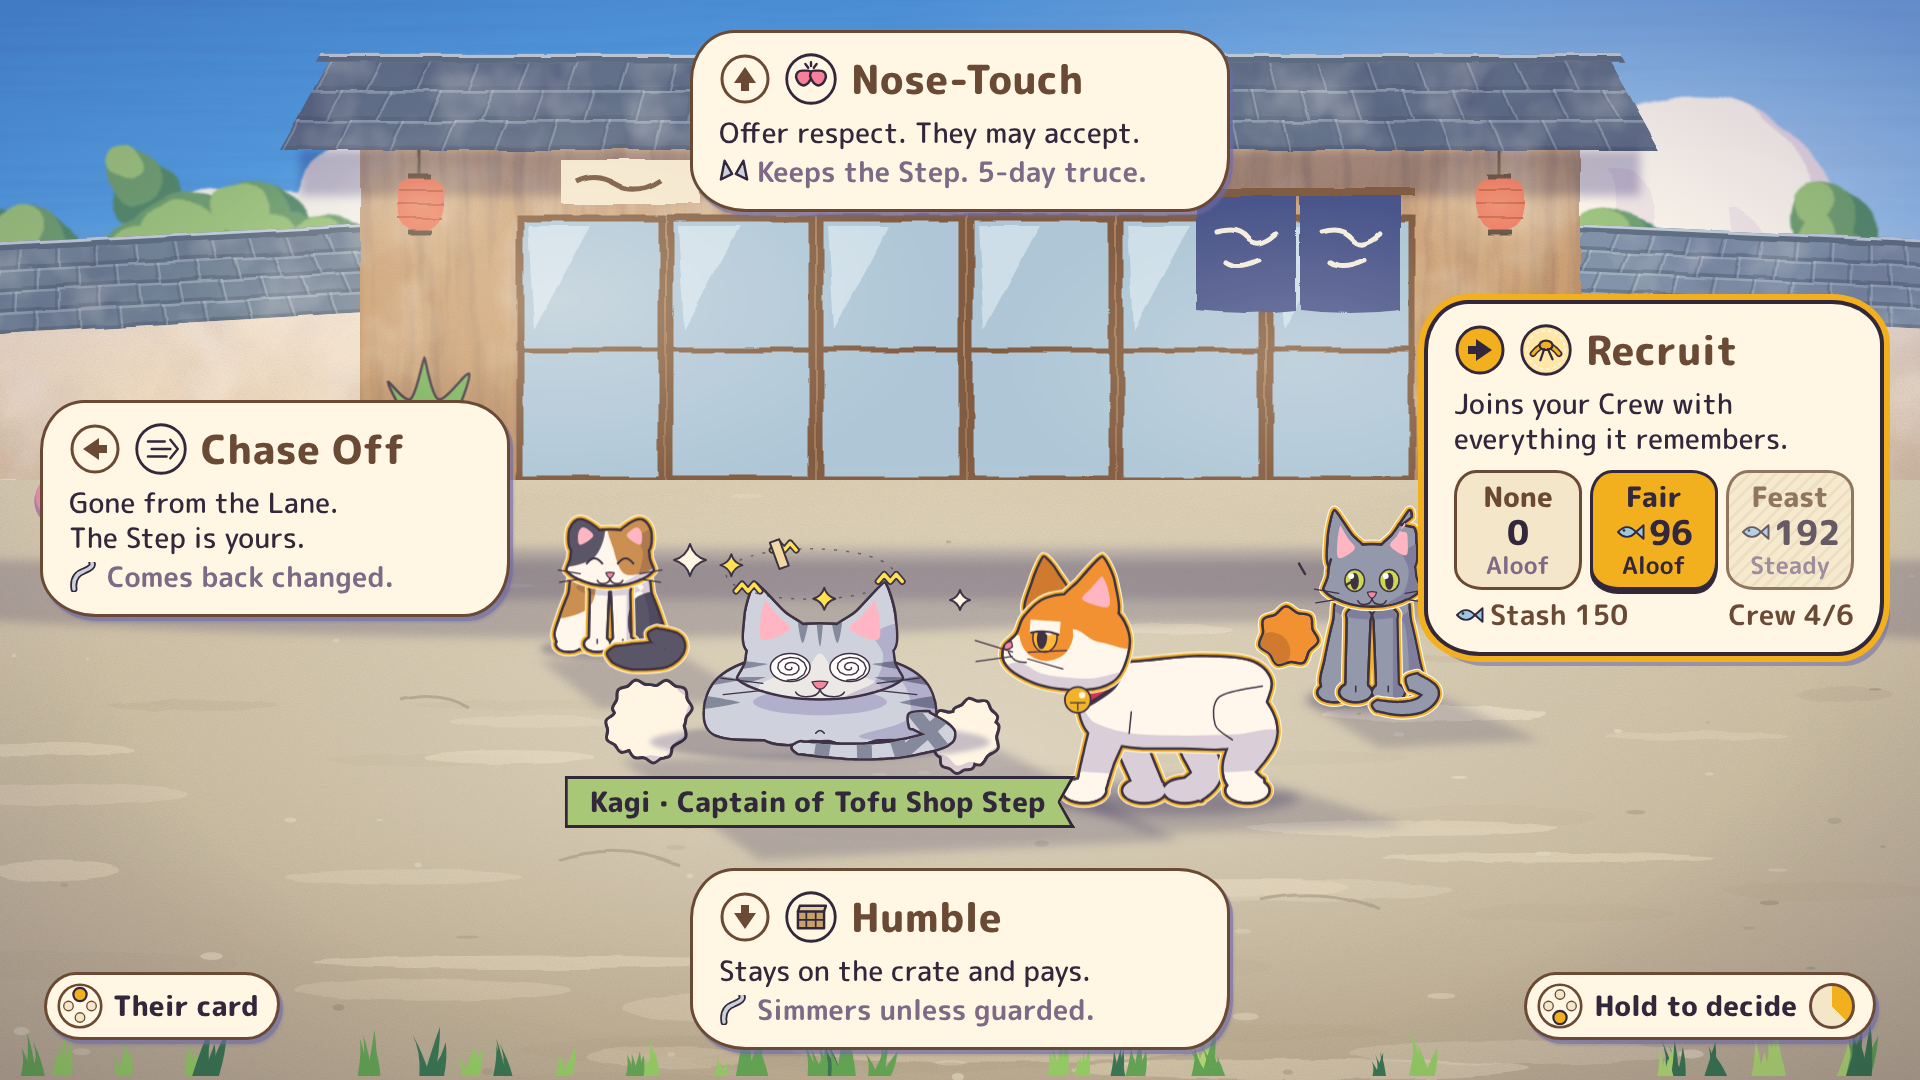
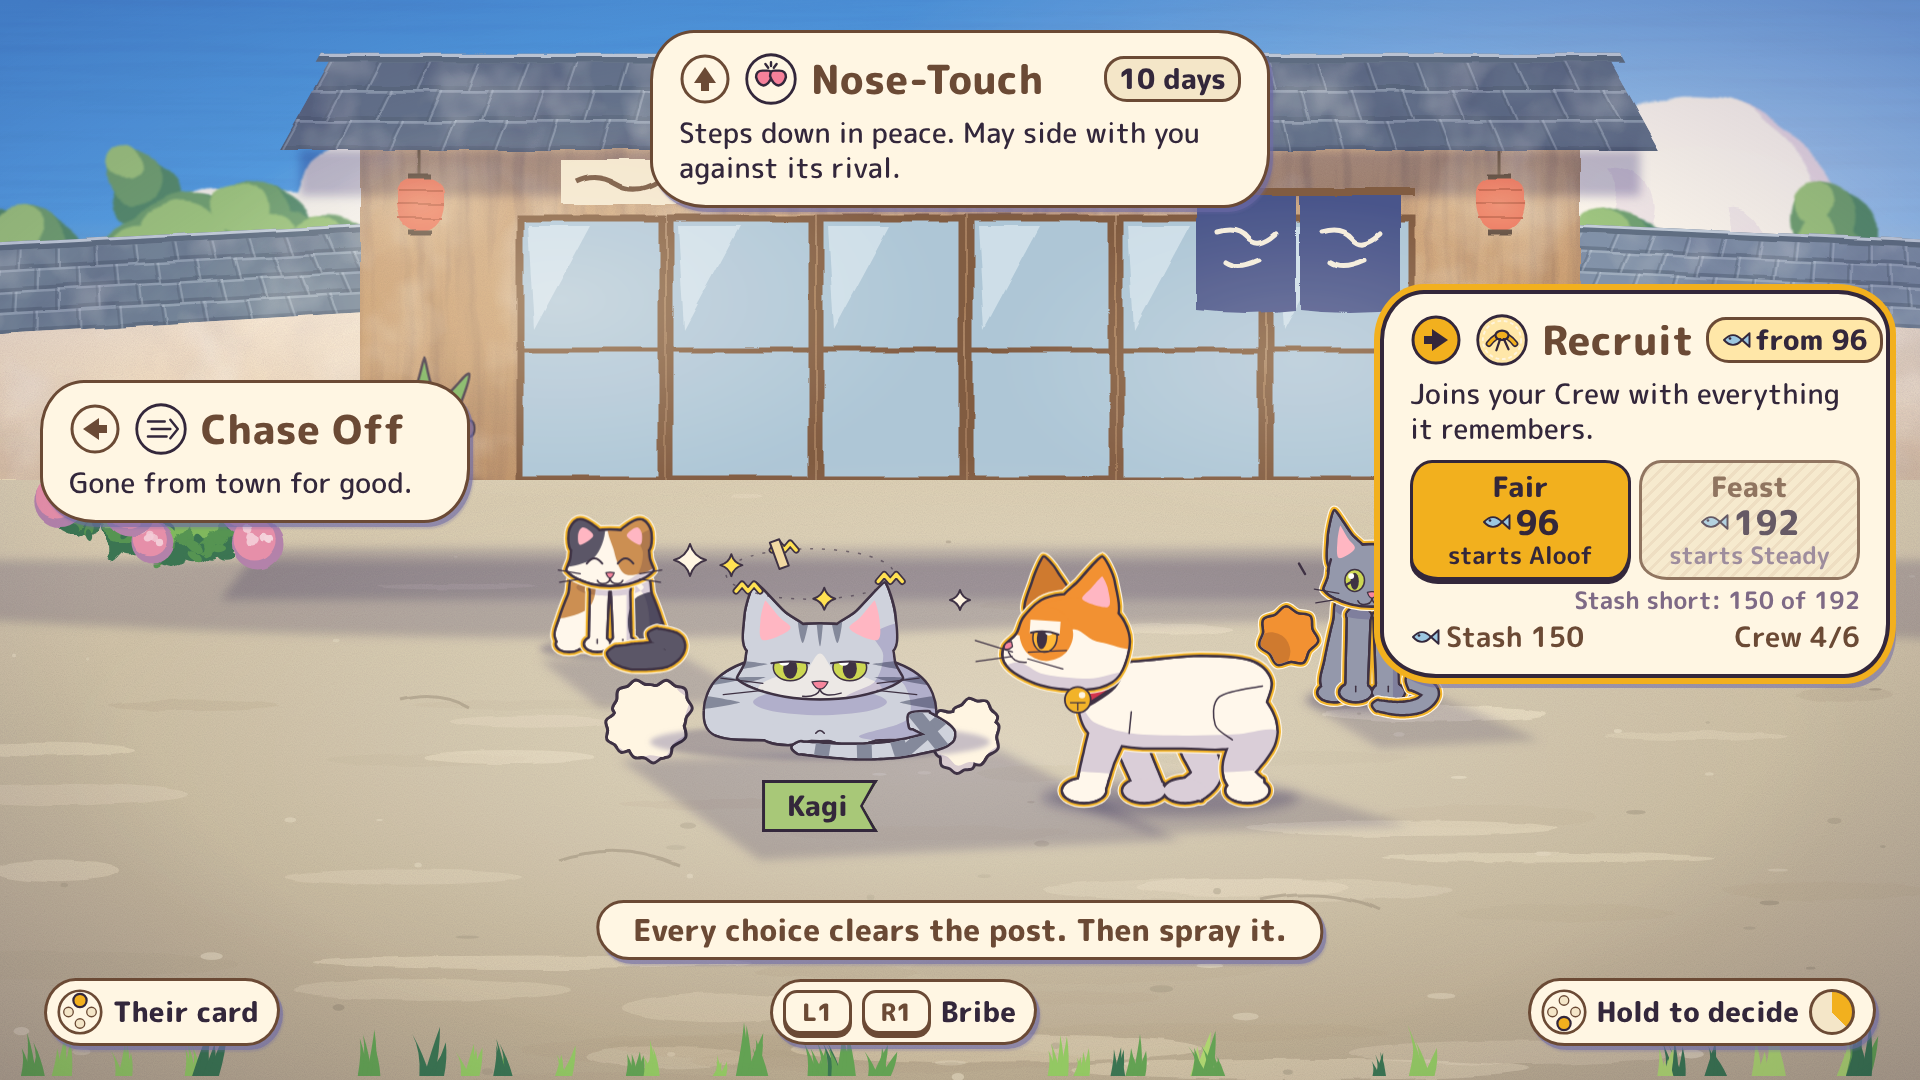
docs: redraw Rivals board and three-option Verdict previews
Claude-Session: https://claude.ai/code/session_01K9BzCtu5ca2nRxDXecreHZ

diff --git a/design/previews/07-verdict.html b/design/previews/07-verdict.html
@@ -8,17 +8,16 @@
   body { margin: 0; background: #111; }
   .vc { position: absolute; width: 470px; box-sizing: border-box; padding: 18px 26px 20px; }
   .vc .hd { display: flex; align-items: center; gap: 12px; margin-bottom: 8px; }
-  .vc .hd .t { font: 800 40px/1 var(--font); color: var(--cocoa); letter-spacing: .01em; }
+  .vc .hd .t { white-space: nowrap; font: 800 40px/1 var(--font); color: var(--cocoa); letter-spacing: .01em; }
   .vc .hd svg { display: block; flex: none; }
   .vc .ln { font: 500 28px/1.25 var(--font); color: var(--ink); }
   .vc .ln b { font-weight: 800; }
   .vc .risk { font: 700 28px/1.25 var(--font); color: #7E6A86; margin-top: 4px; display: flex; align-items: center; gap: 8px; }
   .vc--raised { border-color: var(--ink); border-width: 4px; box-shadow: 0 0 0 6px var(--gold), 6px 10px 0 rgba(110,106,168,.55); }
-  #v-up { left: 690px; top: 30px; width: 540px; }
-  #v-down { left: 690px; top: 868px; width: 540px; }
-  #v-left { left: 40px; top: 400px; }
-  #v-right { left: 1424px; top: 300px; width: 460px; padding-bottom: 22px; }
-  .bribe { display: grid; grid-template-columns: repeat(3, 1fr); gap: 8px; margin-top: 14px; }
+  #v-up { left: 650px; top: 30px; width: 620px; }
+  #v-left { left: 40px; top: 380px; width: 430px; }
+  #v-right { left: 1380px; top: 290px; width: 510px; padding-bottom: 22px; }
+  .bribe { display: grid; grid-template-columns: repeat(2, 1fr); gap: 8px; margin-top: 14px; }
   .bribe .opt { display: flex; flex-direction: column; align-items: center; gap: 4px; padding: 10px 4px 10px; border: 3px solid var(--cocoa); border-radius: 22px 26px 22px 28px / 26px 22px 28px 22px; background: var(--recessed); }
   .bribe .opt .n { font: 800 28px/1 var(--font); color: var(--cocoa); }
   .bribe .opt .p { font: 800 34px/1 var(--font); color: var(--ink); display: flex; align-items: center; gap: 4px; }
@@ -28,10 +27,14 @@
   .bribe .opt--short { background: repeating-linear-gradient(-45deg, var(--recessed) 0 6px, #E9D7B8 6px 9px); opacity: .75; }
   .stash { display: flex; justify-content: space-between; margin-top: 10px; font: 700 28px/1 var(--font); color: var(--cocoa); }
   .stash span { display: flex; align-items: center; gap: 6px; }
-  #foot-l { left: 44px; bottom: 40px; }
-  #foot-r { right: 44px; bottom: 40px; display: flex; align-items: center; gap: 12px; }
-  #foot-r .ring { width: 46px; height: 46px; border-radius: 50%; background: conic-gradient(var(--gold) 0 38%, var(--recessed) 38% 100%); border: 3px solid var(--cocoa); box-sizing: border-box; }
-  #title { left: 820px; top: 776px; transform: translateX(-50%); display: flex; align-items: center; gap: 14px; }
+  .chip { margin-left: auto; flex: none; display: inline-flex; align-items: center; gap: 4px; height: 40px; padding: 0 12px; border-radius: 20px 22px 19px 23px; background: var(--recessed); border: 3px solid var(--cocoa); font: 800 28px/1 var(--font); color: var(--ink); white-space: nowrap; }
+  .chip--gold { background: #FFE7A8; }
+  .short { margin-top: 8px; font: 700 24px/1 var(--font); color: #7E6A86; text-align: right; }
+  #strip { left: 50%; top: 900px; transform: translateX(-50%); padding: 12px 34px; background: var(--cream); border: 3px solid var(--cocoa); border-radius: 30px 34px 30px 36px; box-shadow: var(--drop); font: 800 30px/1 var(--font); color: var(--cocoa); white-space: nowrap; }
+  #foot { left: 44px; right: 44px; bottom: 34px; display: flex; justify-content: space-between; align-items: center; }
+  #foot .k-prompt .k-btn { height: 44px; }
+  #hold .ring { width: 46px; height: 46px; border-radius: 50%; background: conic-gradient(var(--gold) 0 38%, var(--recessed) 38% 100%); border: 3px solid var(--cocoa); box-sizing: border-box; }
+  #title { left: 820px; top: 780px; transform: translateX(-50%); display: flex; align-items: center; gap: 14px; }
 </style>
 </head>
 <body>
@@ -40,8 +43,8 @@
 <script src="rival-helpers.js"></script>
 <script>
 /* FRAME 07 — THE VERDICT. Tofu Shop Step, late Day. The Posse has Routed Kagi, Captain of Tofu Shop Step.
- * Low two-shot, HUD hidden, the clock paused. Four Verdicts on the fixed compass: Up Nose-Touch, Down Humble,
- * Left Chase Off, Right Recruit (raised: the Bribe row is open on Fair; Feast is beyond the Stash).
+ * Low two-shot, HUD hidden, the clock paused. THREE Verdicts (key-screens §4, OR-12): Left Chase Off, Up Nose-Touch
+ * (10-day truce), Right Recruit (raised: Life 2 Bribe row Fair / Feast, Fair selected, Feast beyond the Stash). No Down card.
  * Perspective: horizon y=470, focal 1300, camera 0.45 m up (low). */
 const K = Kit, C = K.C, W = 1920, H = 1080, HZ = 470, F = 1300, CX = 960, CH = 0.45;
 const P = (X, Y, d) => [CX + X * F / d, HZ + (CH - Y) * F / d];
@@ -102,7 +105,7 @@ s.push(K.castShadow('M620 760L1000 750L1180 840L760 860Z', 0.32) + K.castShadow(
 const kg = { x: 820, y: 742 };
 s.push(K.dustCloud({ x: kg.x - 170, y: kg.y - 20, r: 46, puffs: 5, seed: 3 }) + K.dustCloud({ x: kg.x + 150, y: kg.y - 6, r: 36, puffs: 4, seed: 5 }));
 s.push(K.shadow({ x: kg.x, y: kg.y, rx: 170, ry: 18, opacity: 0.4 }));
-s.push(`<g transform="translate(${kg.x} ${kg.y}) scale(1.16 0.82) translate(${-kg.x} ${-kg.y})">${K.cat({ ...RV.CAST.kagi, pose: 'loaf', expr: 'spiral', x: kg.x, y: kg.y, scale: 2.3, shadow: false })}</g>`);
+s.push(`<g transform="translate(${kg.x} ${kg.y}) scale(1.16 0.82) translate(${-kg.x} ${-kg.y})">${K.cat({ ...RV.CAST.kagi, pose: 'loaf', expr: 'smug', x: kg.x, y: kg.y, scale: 2.3, shadow: false })}</g>`);
 s.push(K.frazzleOrbit({ x: kg.x - 10, y: kg.y - 168, r: 84 }));
 s.push(`<g transform="translate(${kg.x - 40} ${kg.y - 186}) rotate(-20)">${K.inked('M-5 -16H5V12H-5Z', '#F2D8A0', 2)}</g>`); // its clothes-peg, knocked askew
 
@@ -130,23 +133,21 @@ const tail = `<svg width="30" height="30" viewBox="-15 -15 30 30"><path d="M-10 
 const ears = `<svg width="30" height="30" viewBox="-16 -16 32 32"><path d="M-14 8L-10 -12L-2 2ZM14 8L10 -12L2 2Z" fill="#CDD1DC" stroke="${C.ink}" stroke-width="2.6" stroke-linejoin="round"/></svg>`;
 
 document.getElementById('stage').innerHTML = K.svg(W, H, s.join(''), 'class="k-world"') + `
-  <div class="k-panel vc" id="v-up"><div class="hd">${arrow('up')}${ic(noses)}<span class="t">Nose-Touch</span></div>
-    <div class="ln">Offer respect. They may accept.</div><div class="risk">${ears}Keeps the Step. 5-day truce.</div></div>
+  <div class="k-panel vc" id="v-up"><div class="hd">${arrow('up')}${ic(noses)}<span class="t">Nose-Touch</span><span class="chip">10 days</span></div>
+    <div class="ln">Steps down in peace. May side with you against its rival.</div></div>
   <div class="k-panel vc" id="v-left"><div class="hd">${arrow('left')}${ic(G.run)}<span class="t">Chase Off</span></div>
-    <div class="ln">Gone from the Lane.<br>The Step is yours.</div><div class="risk">${tail}Comes back changed.</div></div>
-  <div class="k-panel vc" id="v-down"><div class="hd">${arrow('down')}${ic(crateG)}<span class="t">Humble</span></div>
-    <div class="ln">Stays on the crate and pays.</div><div class="risk">${tail}Simmers unless guarded.</div></div>
-  <div class="k-panel vc vc--raised" id="v-right"><div class="hd">${arrow('right', true)}${ic(cordG, '#FFE7A8')}<span class="t">Recruit</span></div>
+    <div class="ln">Gone from town for good.</div></div>
+  <div class="k-panel vc vc--raised" id="v-right"><div class="hd">${arrow('right', true)}${ic(cordG, '#FFE7A8')}<span class="t">Recruit</span><span class="chip chip--gold">${fish}from 96</span></div>
     <div class="ln">Joins your Crew with everything it remembers.</div>
     <div class="bribe">
-      <div class="opt"><span class="n">None</span><span class="p">0</span><span class="l">Aloof</span></div>
-      <div class="opt opt--on"><span class="n">Fair</span><span class="p">${fish}96</span><span class="l">Aloof</span></div>
-      <div class="opt opt--short"><span class="n">Feast</span><span class="p">${fish}192</span><span class="l">Steady</span></div>
+      <div class="opt opt--on"><span class="n">Fair</span><span class="p">${fish}96</span><span class="l">starts Aloof</span></div>
+      <div class="opt opt--short"><span class="n">Feast</span><span class="p">${fish}192</span><span class="l">starts Steady</span></div>
     </div>
+    <div class="short">Stash short: 150 of 192</div>
     <div class="stash"><span>${fish}Stash 150</span><span>Crew 4/6</span></div></div>
-  <div class="k-abs" id="title"><span class="k-ribbon k-ribbon--sage">Kagi · Captain of Tofu Shop Step</span></div>
-  <div class="k-abs k-prompt" id="foot-l">${K.ui.faceButtons({ size: 46, lit: 'n' })}Their card</div>
-  <div class="k-abs k-prompt" id="foot-r">${K.ui.faceButtons({ size: 46, lit: 's' })}Hold to decide<span class="ring"></span></div>`;
+  <div class="k-abs" id="title"><span class="k-ribbon k-ribbon--sage">Kagi</span></div>
+  <div class="k-abs" id="strip">Every choice clears the post. Then spray it.</div>
+  <div class="k-abs" id="foot"><span class="k-prompt">${K.ui.faceButtons({ size: 46, lit: 'n' })}Their card</span><span class="k-prompt"><span class="k-btn k-key" style="font-size:24px;min-width:64px">L1</span><span class="k-btn k-key" style="font-size:24px;min-width:64px">R1</span>Bribe</span><span class="k-prompt" id="hold">${K.ui.faceButtons({ size: 46, lit: 's' })}Hold to decide<span class="ring"></span></span></div>`;
 </script>
 </body>
 </html>
